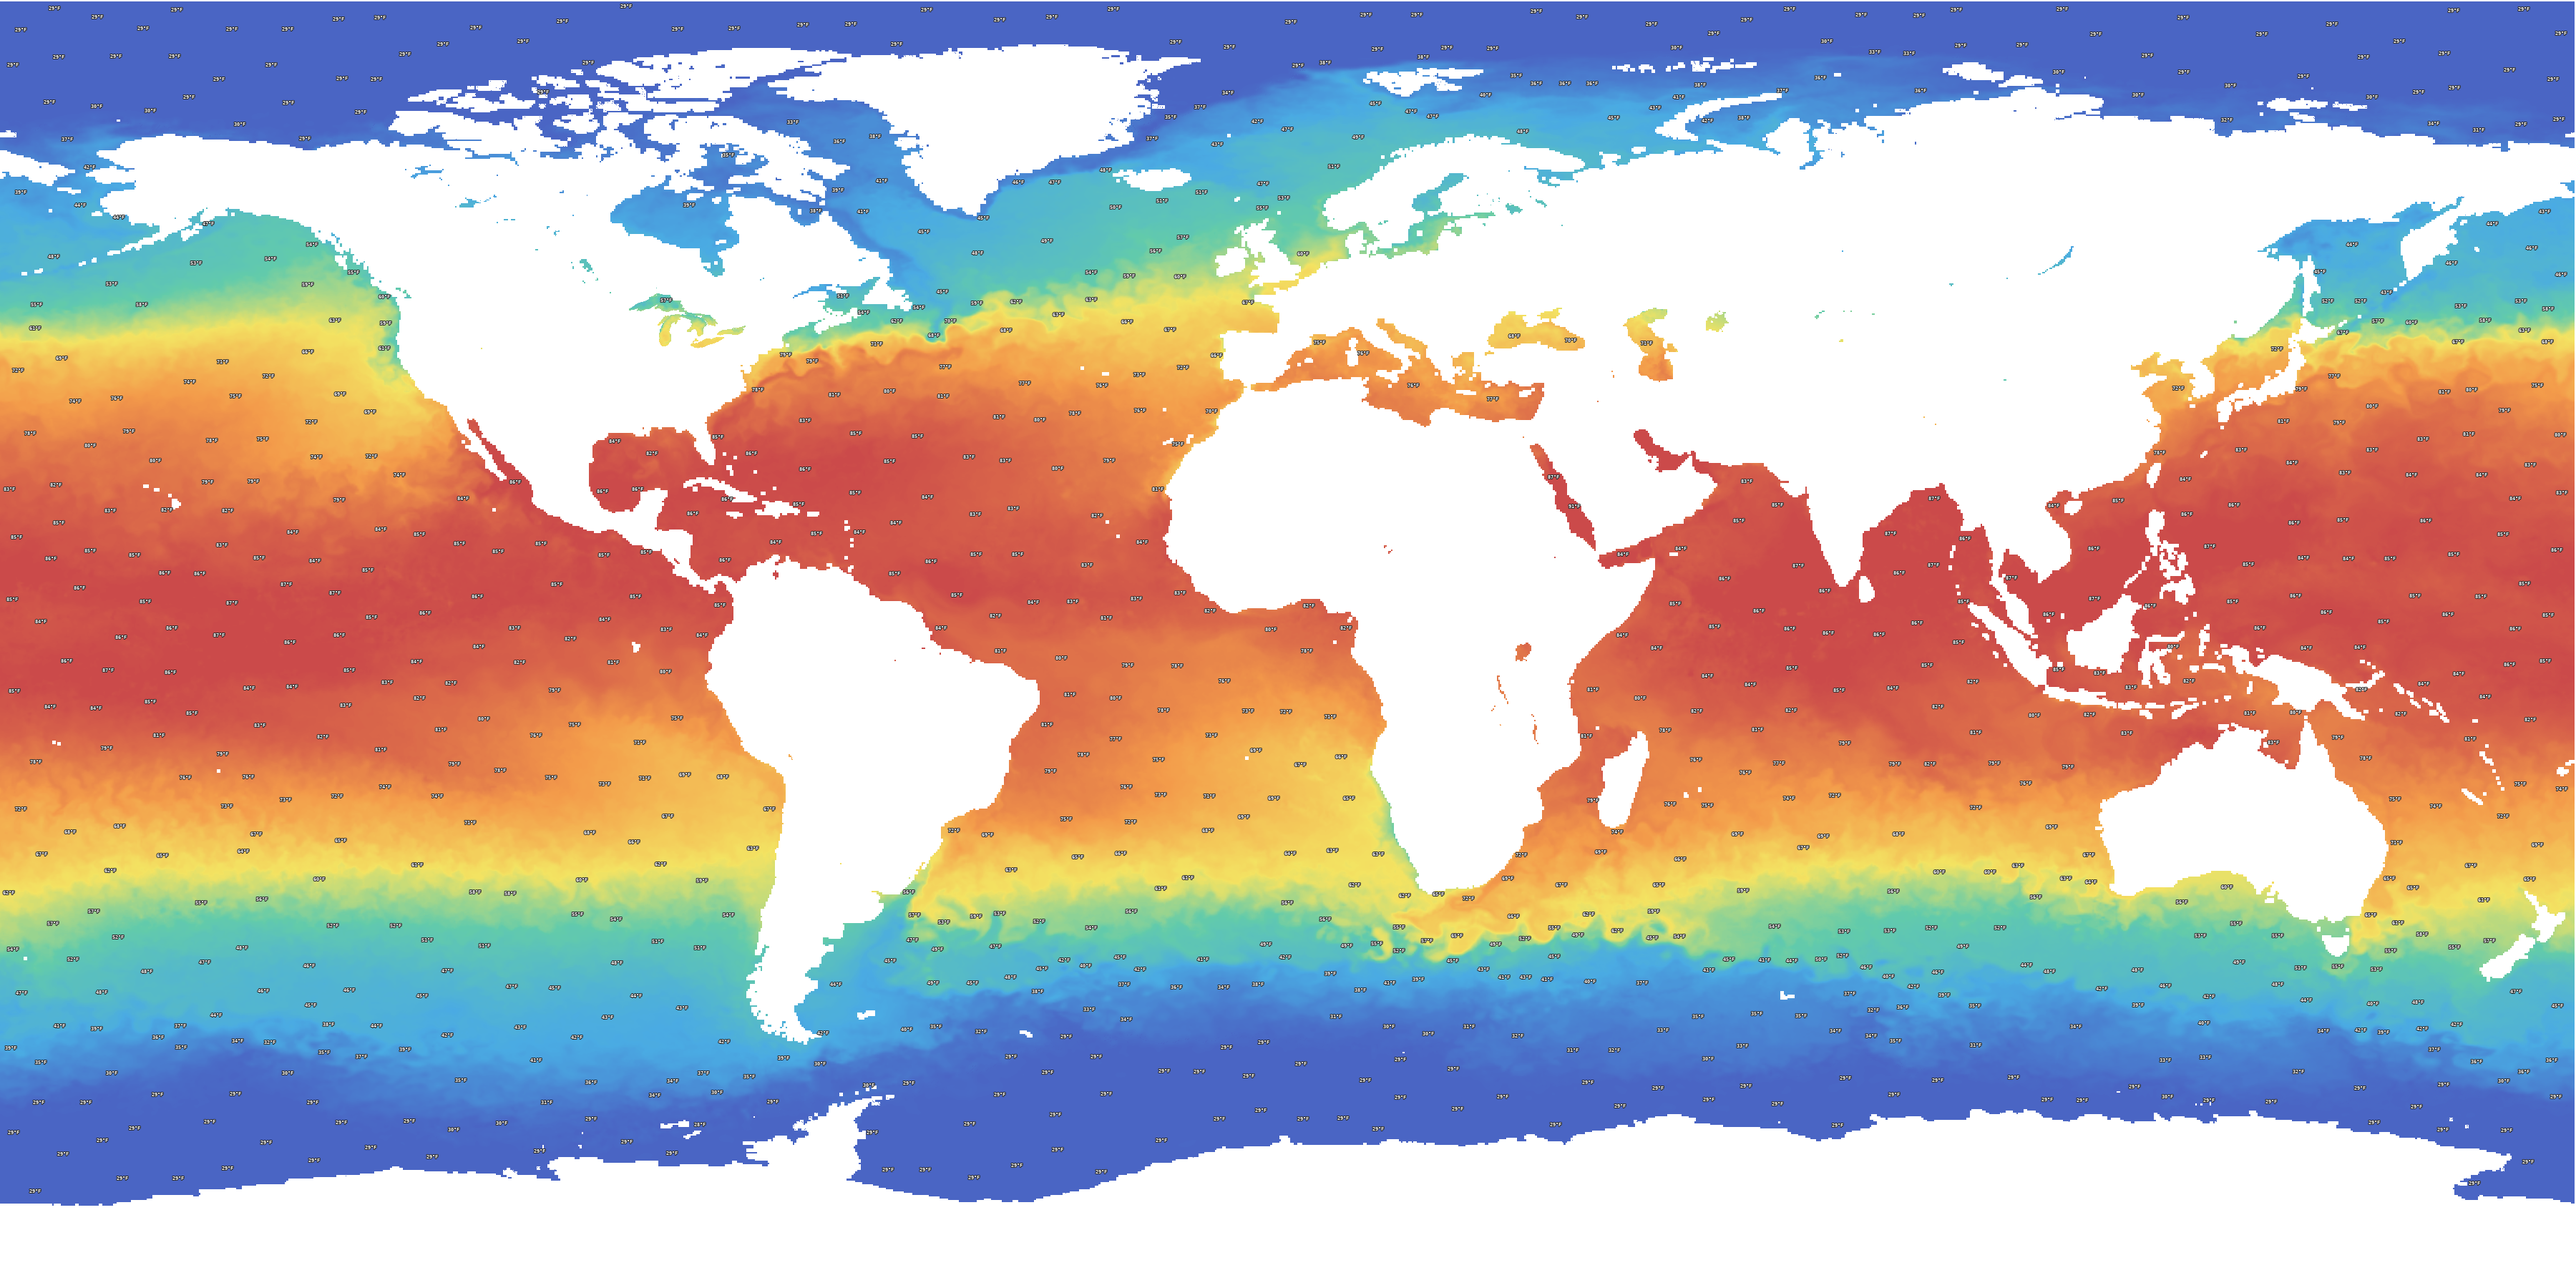
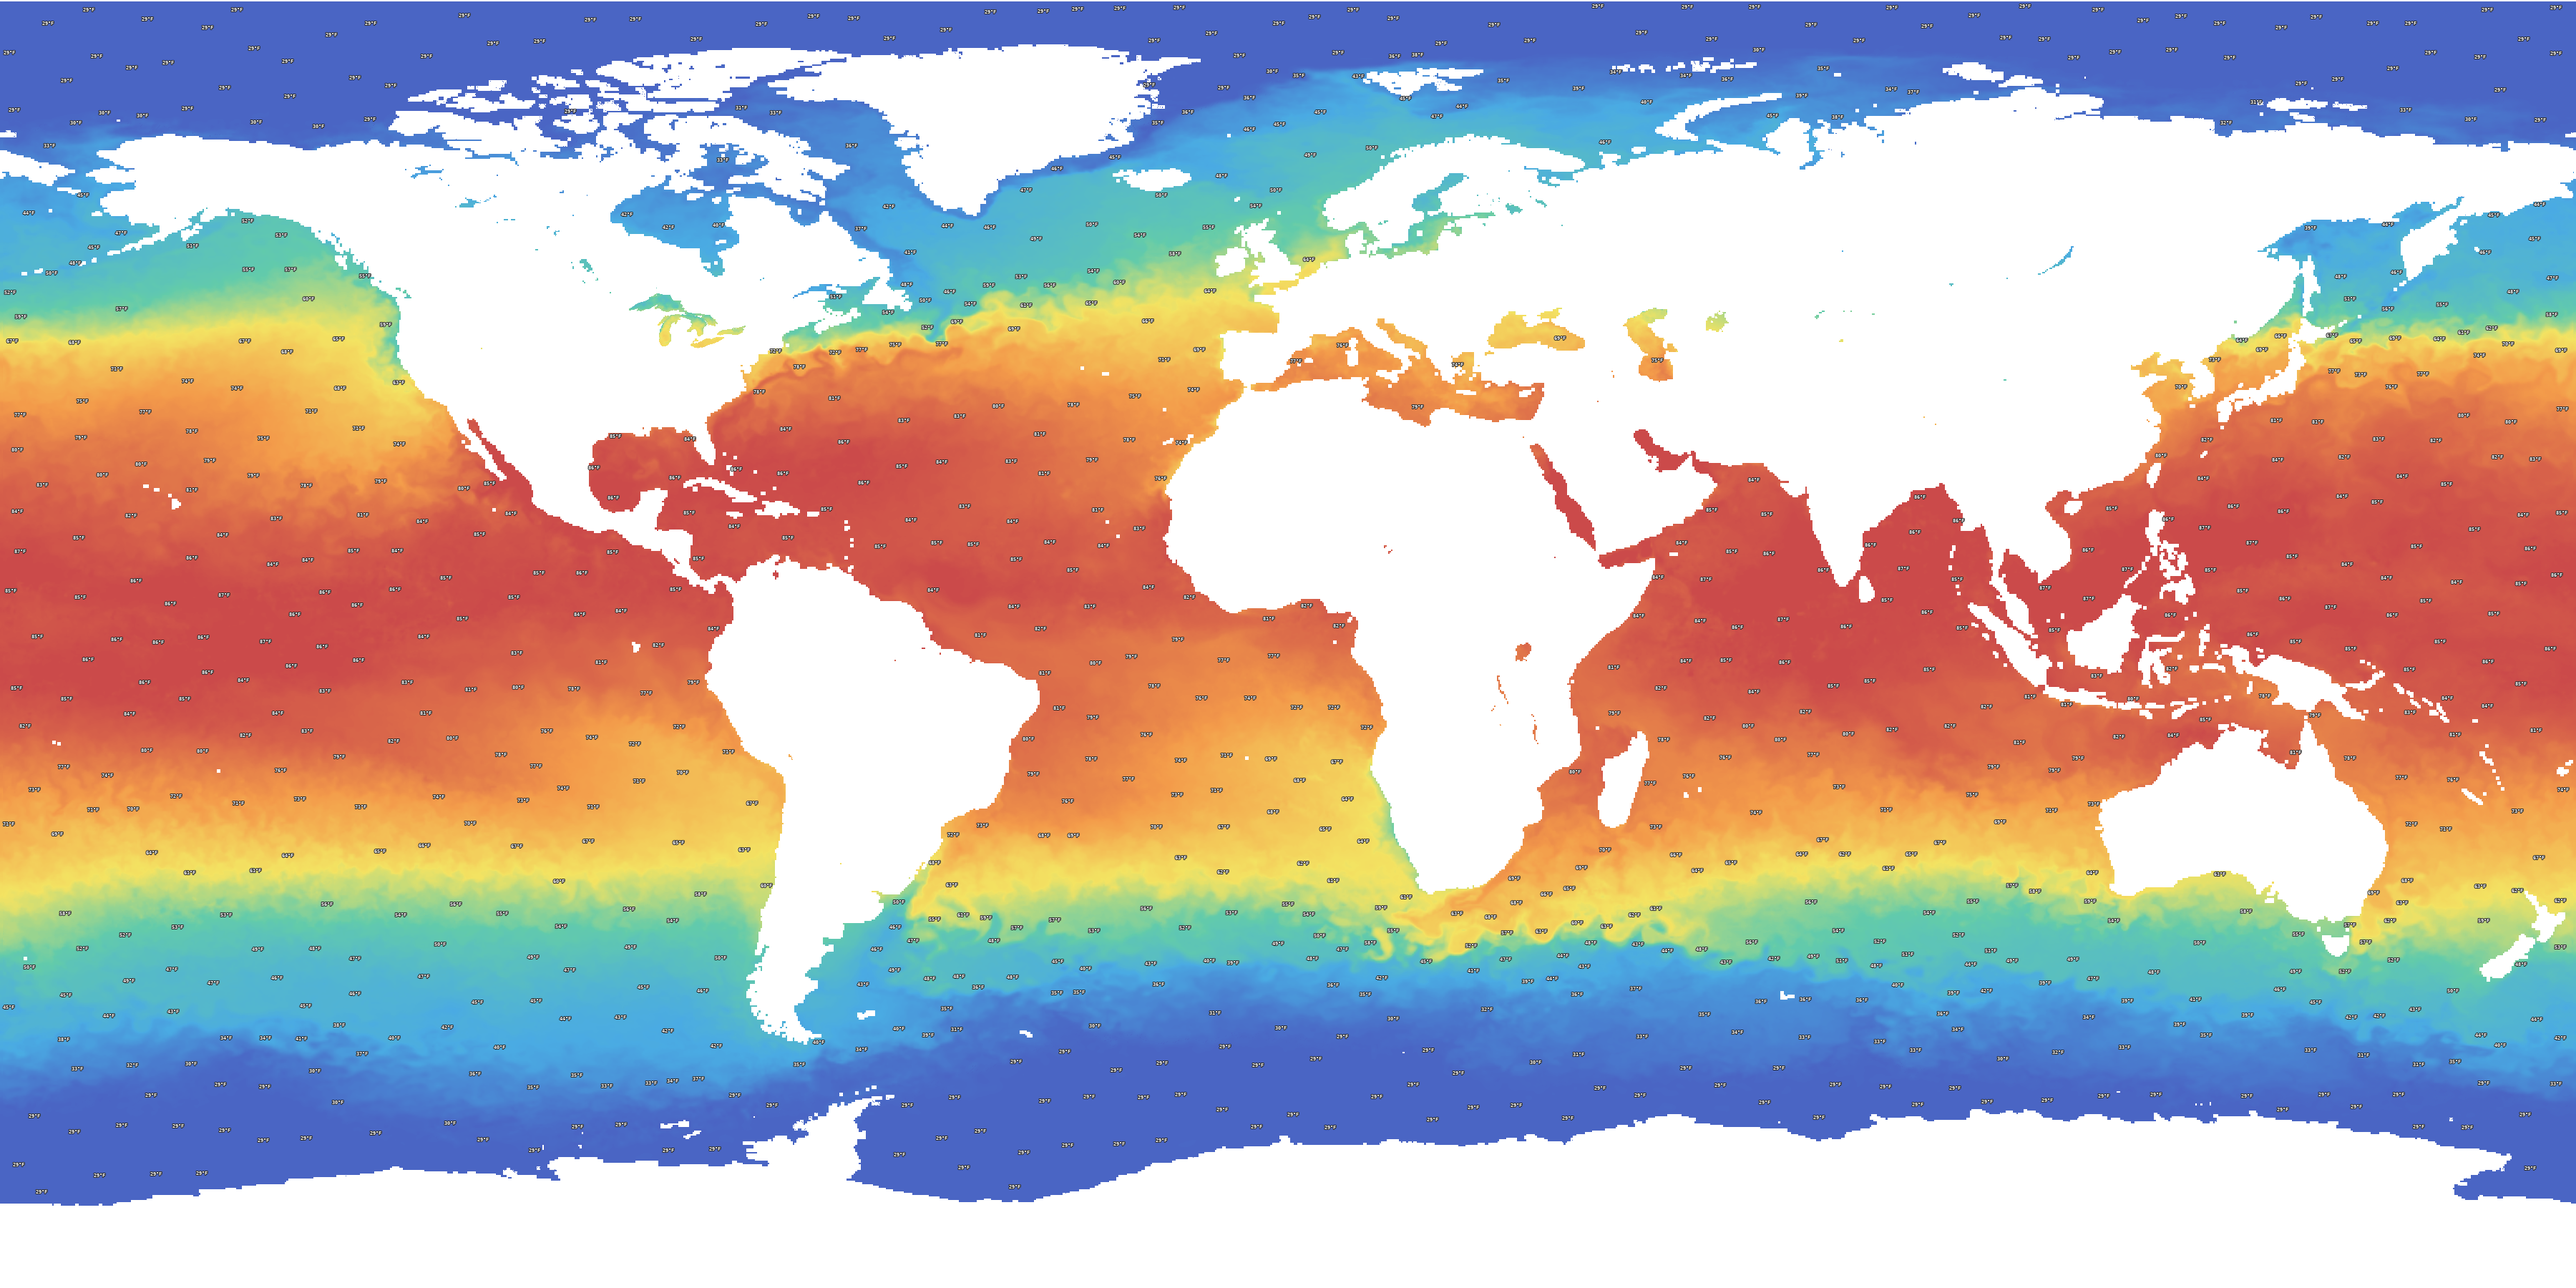
Water temperature: kill Pacific antimeridian seam, stack Great Lakes on top (verified local)

diff --git a/scripts/build_water_temperature.py b/scripts/build_water_temperature.py
@@ -753,14 +753,19 @@ def _build(info, raw_path, source_id, preview_dir=None, font_size=7,
         return 2
     from geospatial_utils import (bin_to_canvas, canvas_indices,
                                   resample_gridded)
+    from na_common import blend_antimeridian
     gbounds = load_global_bounds()
     GH, GW = gbounds["canvas_height"], gbounds["canvas_width"]
 
     def _to_canvas(la1, lo1, grid):
         _lo2, _la2 = np.meshgrid(np.asarray(lo1, dtype=float),
                                  np.asarray(la1, dtype=float))
-        return resample_gridded(np.asarray(grid, dtype=float),
-                                _la2, _lo2, gbounds, (GH, GW))
+        out = resample_gridded(np.asarray(grid, dtype=float),
+                               _la2, _lo2, gbounds, (GH, GW))
+        # Kill the ±180° canvas-edge discontinuity (non-wrapping
+        # resampling lets the two Pacific edges diverge into a visible
+        # seam line); NaN-aware mirror-average of a 4 px band.
+        return blend_antimeridian(out)
 
     try:
         _bfield = _to_canvas(_bla, _blo, _bsst)
@@ -801,6 +806,10 @@ def _build(info, raw_path, source_id, preview_dir=None, font_size=7,
     _n_ocn = int(np.isfinite(_comp).sum())
     _n_lak = int(np.isfinite(_lakeonly).sum())
     print(f"[{PRODUCT}] world populations: ocean={_n_ocn} lakes={_n_lak}")
+    np.savez_compressed(os.path.join(RAW_DIR, "water_temperature_world.npz"),
+                        blended_time=np.array(blended_time),
+                        mur_time=np.array(mur_time),
+                        global_f=_comp, continental_f=_lakeonly)
     if _n_ocn < 50_000 or _n_lak < 500:
         print(f"[{PRODUCT}] VALIDATION FAILED: implausible world coverage "
               f"(ocean={_n_ocn}, lakes={_n_lak}). Keeping previous.")
@@ -989,11 +998,11 @@ def _build(info, raw_path, source_id, preview_dir=None, font_size=7,
     meta["extra_overlays"] = [
         {"name": WT_LABELS["landonly"],
          "png": f"{WT_DIRS['landonly']}/current.png",
-         "bounds": dict(gbounds), "draw_order": 11, "visibility": 0,
+         "bounds": dict(gbounds), "draw_order": 9, "visibility": 0,
          "overlay_description": con_odesc, "version_token": _lake_token},
         {"name": WT_LABELS["global"],
          "png": f"{WT_DIRS['global']}/current.png",
-         "bounds": dict(gbounds), "draw_order": 12, "visibility": 0,
+         "bounds": dict(gbounds), "draw_order": 8, "visibility": 0,
          "overlay_description": glo_odesc, "version_token": _ocean_token},
     ]
     write_metadata(stage_prod, meta)  # re-write incl. folder + overlays
@@ -1006,12 +1015,16 @@ def _build(info, raw_path, source_id, preview_dir=None, font_size=7,
         CONFIG["refresh_interval_seconds"], token,
         out_dirs=outs["live"],
         folder=(CONFIG["title"], folder_html), meta=meta,
+        # z-order: Great Lakes (primary, drawOrder 10) paints above
+        # Continental (9) above Oceanic (8), so even a client that shows
+        # every overlay at once reads as Great Lakes-first; the visibility
+        # flags still give single-coverage behavior where honored.
         extra_overlays=[(WT_LABELS["landonly"],
                          f"{WT_DIRS['landonly']}/current.png",
-                         dict(gbounds), 11, 0, con_odesc, _lake_token),
+                         dict(gbounds), 9, 0, con_odesc, _lake_token),
                         (WT_LABELS["global"],
                          f"{WT_DIRS['global']}/current.png",
-                         dict(gbounds), 12, 0, glo_odesc, _ocean_token)],
+                         dict(gbounds), 8, 0, glo_odesc, _ocean_token)],
         folder_radio=True, primary_name=WT_LABELS["basin"],
         overlay_descriptions=basin_odesc)
     assert_no_vector_geometry(kml_text)
